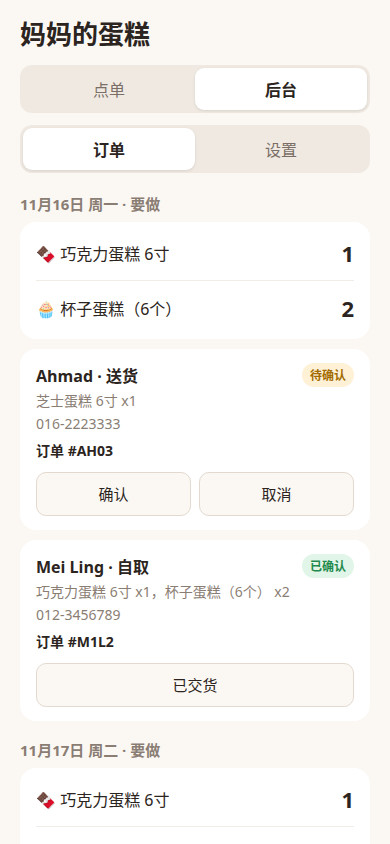
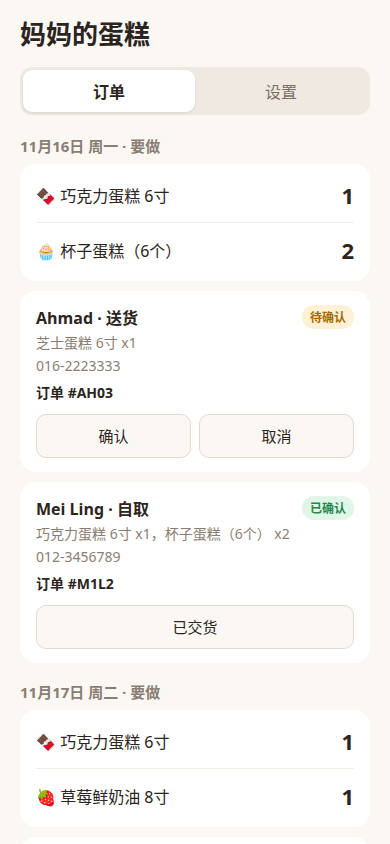
Hide the admin page from the ordering screen (#2)
Customers no longer see a tab or any other link to the back office. The admin stays at /#/admin, behind login.

diff --git a/src/App.vue b/src/App.vue
@@ -20,10 +20,6 @@ watch(
     <header>
       <h1>{{ settings.shopName }}</h1>
     </header>
-    <nav class="seg" aria-label="页面">
-      <router-link to="/" exact-active-class="on">点单</router-link>
-      <router-link to="/admin" active-class="on">后台</router-link>
-    </nav>
     <div class="stage">
       <router-view />
     </div>

diff --git a/src/style.css b/src/style.css
@@ -50,7 +50,7 @@ button, a { touch-action: manipulation; }
 
 header {
   flex: none;
-  padding: max(18px, env(safe-area-inset-top)) 20px 2px;
+  padding: max(18px, env(safe-area-inset-top)) 20px 8px;
 }
 
 h1 {

diff --git a/README.md b/README.md
@@ -14,7 +14,7 @@
 
 ## 妈妈怎么看
 
-1. 打开网页，点「后台」
+1. 打开后台地址并存成书签：https://tofui03.github.io/cake-order/#/admin （点单页面上没有入口）
 2. 用邮箱和密码登录
 3. 每一天最上面是「要做」
 4. 新订单是「待确认」。对过 WhatsApp 之后点「确认」，数量才算进「要做」
